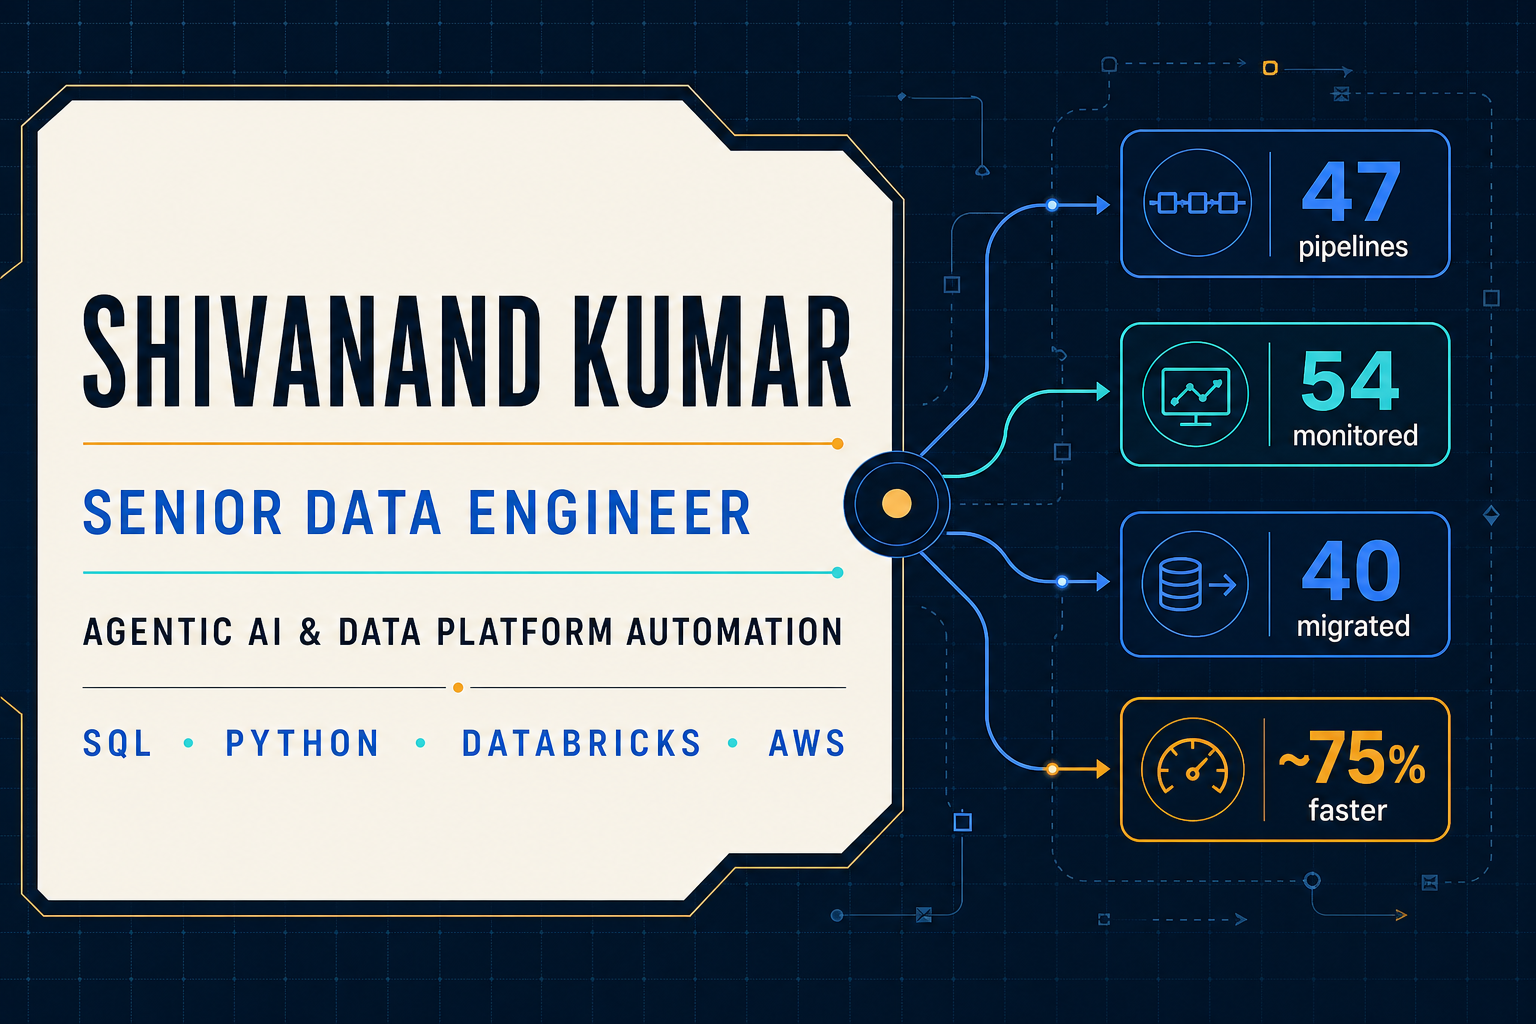
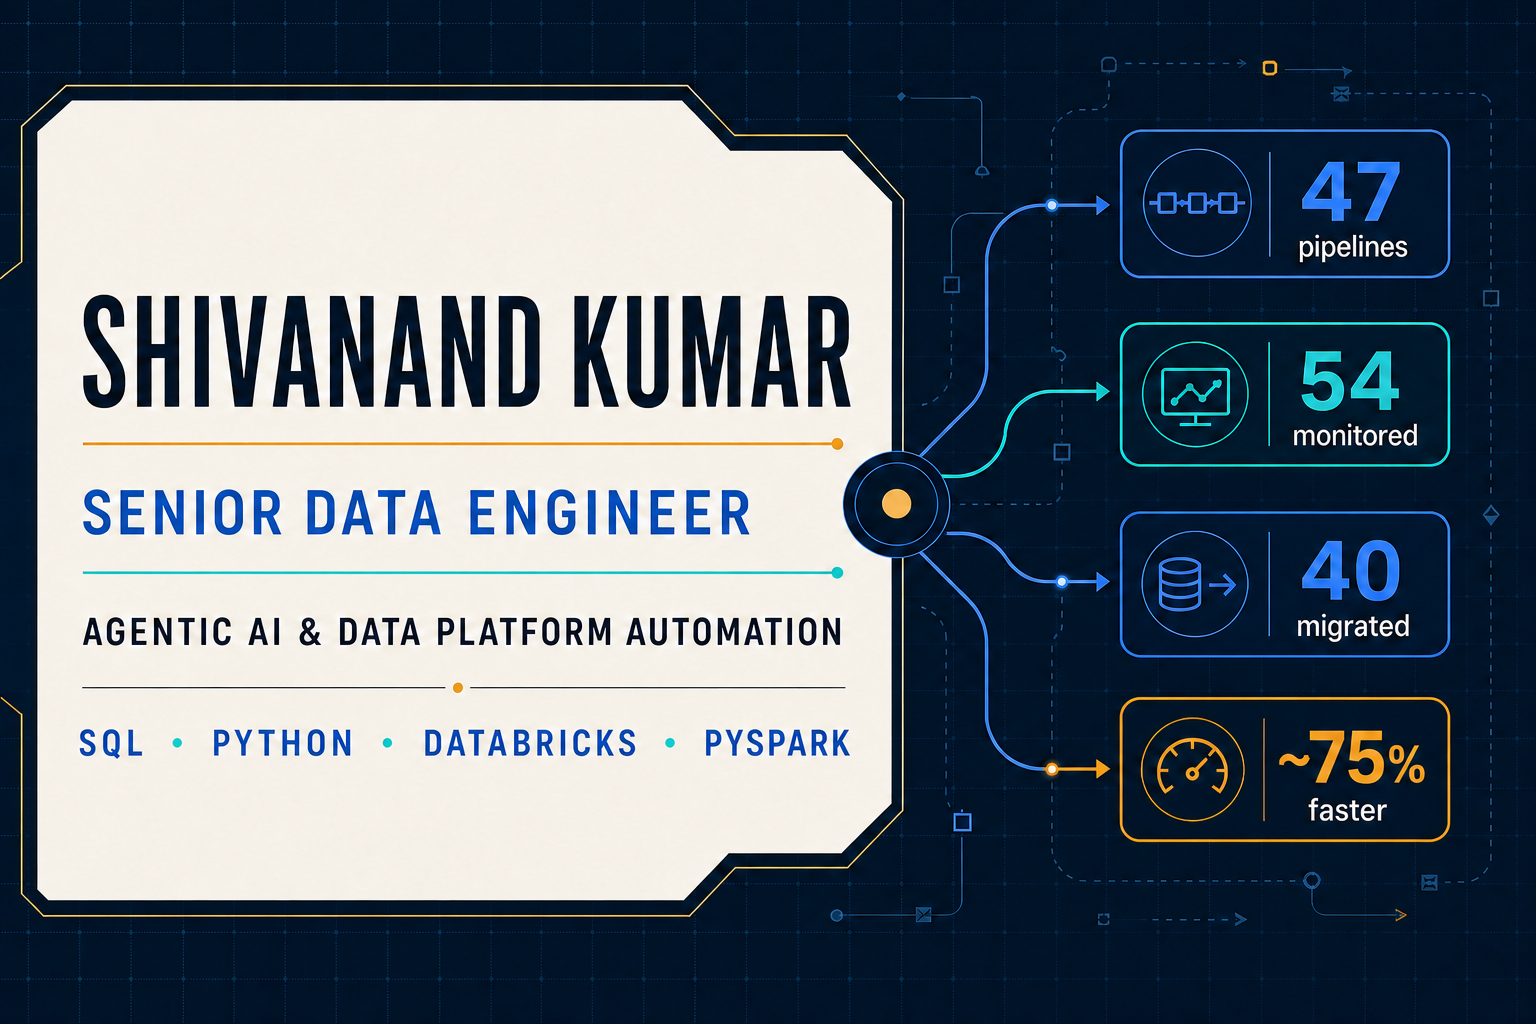
Refine Agentic AI positioning and education

diff --git a/app/page.tsx b/app/page.tsx
@@ -4,30 +4,39 @@ const caseStudies = [
     label: "Production case study",
     title: "AI-driven data-product contract automation",
     summary:
-      "Led the design and rollout of an agentic engineering workflow that turned authoritative pipeline context into structured, reviewable data-product contracts.",
-    outcomes: ["47 Databricks pipelines", "Days to hours", "Human approval retained"],
-    stack: ["Agent skills", "Structured generation", "Deterministic validation", "Databricks"],
+      "Led the end-to-end design and rollout of a five-phase agentic control loop that turned authoritative pipeline context into structured, reviewable data-product contracts.",
+    outcomes: ["47 Databricks pipelines", "20+ transformations", "Days to hours"],
+    stack: ["Agent skills", "Microsoft Waza evaluation", "Deterministic validation", "Human approval"],
   },
   {
     number: "02",
     label: "Production case study",
-    title: "Platform reliability and migration at scale",
+    title: "AI-powered operational support agent",
     summary:
-      "Built repeatable monitoring and migration patterns that improved operational visibility while reducing manual effort and production risk.",
-    outcomes: ["54 monitored pipelines", "40 migrated pipelines", "Zero migration-related failures"],
-    stack: ["Observability", "SLA monitoring", "Migration automation", "Data quality"],
+      "Built and deployed an agentic workflow that retrieves operational context, correlates failure signals, identifies likely root causes and recommends corrective actions.",
+    outcomes: ["54 production pipelines", "85–90% fewer manual checks", "Actionable failure context"],
+    stack: ["RAG", "Vector database", "Knowledge graph", "Agentic workflow"],
   },
   {
     number: "03",
     label: "Production case study",
-    title: "Distributed data optimization",
+    title: "Platform migration and observability",
     summary:
-      "Improved high-volume telemetry and lakehouse workloads through partitioning, join optimization, caching, and distributed deduplication.",
-    outcomes: ["~75% faster runtime", "21B → 400M rows", "~$1.55M savings contribution"],
-    stack: ["PySpark", "Spark", "Databricks", "Performance tuning"],
+      "Led logging standardization through a reusable migration framework while strengthening pipeline-health, SLA and incident-diagnosis visibility.",
+    outcomes: ["40 production pipelines", "Zero migration failures", "~$1.55M savings contribution"],
+    stack: ["Migration automation", "Observability", "SLA monitoring", "Incident diagnosis"],
   },
   {
     number: "04",
+    label: "Production case study",
+    title: "Distributed data optimization",
+    summary:
+      "Improved high-volume telemetry and lakehouse workloads through partitioning, join optimization, caching, and distributed deduplication.",
+    outcomes: ["~75% faster runtime", "21B → 400M rows", "Lower compute overhead"],
+    stack: ["PySpark", "Spark", "Databricks", "Performance tuning"],
+  },
+  {
+    number: "05",
     label: "Production case study",
     title: "SQL analytics automation",
     summary:
@@ -39,39 +48,39 @@ const caseStudies = [
 
 const services = [
   {
-    title: "Reliable data pipelines",
+    title: "Agentic engineering workflows",
+    copy: "RAG, structured generation, deterministic checks, evaluation sets and human-review controls for enterprise engineering automation.",
+  },
+  {
+    title: "Reliable data platforms",
     copy: "SQL, Python, Databricks and PySpark pipelines designed around clear grain, validation, recoverability and measurable outcomes.",
   },
   {
-    title: "Agentic engineering workflows",
-    copy: "Structured generation, deterministic checks, evaluation sets and human-review controls for enterprise engineering automation.",
+    title: "Evaluation & AI quality",
+    copy: "Microsoft Waza evaluation sets, LLM response evaluation, regression checks and approval gates that keep generated outputs reviewable.",
   },
   {
     title: "Platform reliability",
     copy: "Observability, migration frameworks, SLA monitoring, data-quality controls and performance diagnosis for production platforms.",
   },
-  {
-    title: "Analytics automation",
-    copy: "Operational metrics, BI-ready datasets and reporting workflows that replace repetitive manual work with trusted data products.",
-  },
 ];
 
 const skillGroups = [
   {
+    title: "Primary strengths",
+    skills: ["Agentic AI", "Advanced SQL", "Python", "Databricks"],
+  },
+  {
+    title: "AI systems & evaluation",
+    skills: ["Agent workflows", "RAG", "Vector databases", "Knowledge graphs", "Microsoft Waza evaluation", "LLM evaluation"],
+  },
+  {
     title: "Data engineering",
-    skills: ["Advanced SQL", "Python", "PySpark", "ETL / ELT", "Data modeling", "Data quality"],
+    skills: ["PySpark", "ETL / ELT", "Data modeling", "Data quality", "Delta Lake", "Unity Catalog"],
   },
   {
-    title: "Platforms & cloud",
-    skills: ["Databricks", "Delta Lake", "Unity Catalog", "Spark", "AWS S3", "Glue", "Redshift"],
-  },
-  {
-    title: "Agentic AI",
-    skills: ["Agent skills", "Structured outputs", "Context engineering", "Evaluation sets", "Human approval"],
-  },
-  {
-    title: "Reliability",
-    skills: ["Observability", "SLA monitoring", "Migration", "Performance tuning", "Incident diagnosis"],
+    title: "Platform & supporting cloud",
+    skills: ["Observability", "Migration", "Performance tuning", "AWS S3", "Glue", "Redshift"],
   },
 ];
 
@@ -81,7 +90,7 @@ const experience = [
     company: "HP",
     role: "Data Scientist II · Data Engineering & AI Platform Automation",
     detail:
-      "Enterprise Databricks pipelines, agentic contract automation, production monitoring, migration frameworks, observability and distributed optimization.",
+      "Owned agentic contract automation across 47 Databricks pipelines, an AI-powered operational support agent across 54 production pipelines, evaluation controls, migration frameworks, observability and distributed optimization.",
   },
   {
     years: "2022 — 2024",
@@ -118,6 +127,8 @@ export default function Home() {
       "SQL",
       "Python",
       "PySpark",
+      "RAG",
+      "LLM Evaluation",
       "Data Platform Automation",
     ],
   };
@@ -153,12 +164,12 @@ export default function Home() {
           </p>
           <h1>
             Reliable data platforms.
-            <span>Applied intelligence where it matters.</span>
+            <span>Agentic AI with control.</span>
           </h1>
           <p className="hero-role">Senior Data Engineer · Agentic AI & Data Platform Automation</p>
           <p className="hero-copy">
-            I build production data systems and controlled AI-assisted engineering workflows using SQL,
-            Python, Databricks and AWS—connecting reliability, automation and measurable business impact.
+            I build production data systems and controlled Agentic AI workflows using SQL, Python,
+            Databricks and PySpark—connecting reliability, evaluation and measurable business impact.
           </p>
           <div className="hero-actions">
             <a className="button button-primary" href="#work">
@@ -187,15 +198,15 @@ export default function Home() {
           <div className="signal-map">
             <div className="signal signal-a">
               <strong>47</strong>
-              <span>Databricks pipelines</span>
+              <span>Contract-automation pipelines</span>
             </div>
             <div className="signal signal-b">
               <strong>54</strong>
-              <span>Monitored pipelines</span>
+              <span>AI-agent pipeline coverage</span>
             </div>
             <div className="signal signal-c">
-              <strong>40</strong>
-              <span>Zero-failure migrations</span>
+              <strong>85–90%</strong>
+              <span>Fewer manual checks</span>
             </div>
             <div className="signal signal-d">
               <strong>~75%</strong>
@@ -215,8 +226,8 @@ export default function Home() {
         <div>
           <span>DATA PLATFORMS</span>
           <span>AGENTIC AUTOMATION</span>
-          <span>SQL & ANALYTICS</span>
-          <span>RELIABILITY</span>
+          <span>SQL · PYTHON · DATABRICKS</span>
+          <span>RAG & EVALUATION</span>
           <span>LLM EVALUATION</span>
           <span>DATA PLATFORMS</span>
         </div>
@@ -227,8 +238,8 @@ export default function Home() {
           <p className="section-kicker">What I build</p>
           <h2>Engineering work that survives the demo.</h2>
           <p>
-            A data-engineering foundation, with AI automation added through explicit context,
-            structured outputs, validation and human review.
+            Agentic AI and data-platform engineering connected through explicit context,
+            structured outputs, evaluation, validation and human review.
           </p>
         </div>
         <div className="services-grid">
@@ -285,9 +296,10 @@ export default function Home() {
             structured generation, citations, automated evaluation and human approval.
           </p>
           <div className="lab-boundary">
-            <strong>Capability boundary</strong>
+            <strong>Public project boundary</strong>
             <span>
-              This is a public portfolio project—not a claim of production RAG ownership.
+              This non-confidential project extends production Agentic AI and RAG experience
+              into a reusable portfolio architecture with separate retrieval and answer evaluation.
             </span>
           </div>
           <ul>
@@ -349,7 +361,7 @@ export default function Home() {
       <section className="section-shell experience-section">
         <div className="section-heading">
           <p className="section-kicker">Experience</p>
-          <h2>Five years across data, AI evaluation and operations.</h2>
+          <h2>Five years across data platforms, Agentic AI, evaluation and operations.</h2>
         </div>
         <div className="timeline">
           {experience.map((item) => (
@@ -387,10 +399,24 @@ export default function Home() {
       </section>
 
       <section className="section-shell education-section">
-        <div className="education-card">
-          <p className="section-kicker">Education</p>
-          <h2>M.Tech, AI & Data Science Engineering</h2>
-          <p>Indian Institute of Technology (IIT) Patna · July 2026 — Present</p>
+        <div className="education-card featured">
+          <a
+            className="education-logo"
+            href="https://www.iitp.ac.in/"
+            target="_blank"
+            rel="noreferrer"
+            aria-label="Visit the official IIT Patna website"
+          >
+            <img src="/iit-patna-logo.png" alt="Indian Institute of Technology Patna emblem" />
+          </a>
+          <div>
+            <p className="section-kicker">Education · Current programme</p>
+            <h2>M.Tech, AI & Data Science Engineering</h2>
+            <p>Indian Institute of Technology (IIT) Patna · July 2026 — Present</p>
+            <span className="education-note">
+              Industry-integrated postgraduate study aligned with AI-ready data platforms.
+            </span>
+          </div>
         </div>
         <div className="education-card secondary">
           <p className="section-kicker">Foundation</p>

diff --git a/app/globals.css b/app/globals.css
@@ -554,6 +554,16 @@ nav a:not(.nav-cta):hover {
   transform: translateY(-4px);
 }
 
+.case-card:last-child:nth-child(odd) {
+  grid-column: 1 / -1;
+  min-height: 400px;
+}
+
+.case-card:last-child:nth-child(odd) > p,
+.case-card:last-child:nth-child(odd) .outcomes {
+  max-width: 720px;
+}
+
 .case-meta {
   color: #8da2b4;
   display: flex;
@@ -928,7 +938,7 @@ nav a:not(.nav-cta):hover {
 .education-section {
   display: grid;
   gap: 18px;
-  grid-template-columns: 1.2fr 0.8fr;
+  grid-template-columns: 1.35fr 0.65fr;
   padding-bottom: 120px;
   padding-top: 120px;
 }
@@ -941,6 +951,56 @@ nav a:not(.nav-cta):hover {
   padding: 34px;
 }
 
+.education-card.featured {
+  align-items: center;
+  background:
+    radial-gradient(circle at 14% 28%, rgba(60, 130, 246, 0.11), transparent 30%),
+    var(--white);
+  display: grid;
+  gap: 28px;
+  grid-template-columns: 132px 1fr;
+  overflow: hidden;
+  position: relative;
+}
+
+.education-card.featured::after {
+  border: 1px solid rgba(60, 130, 246, 0.12);
+  border-radius: 50%;
+  content: "";
+  height: 250px;
+  left: -105px;
+  position: absolute;
+  top: -115px;
+  width: 250px;
+}
+
+.education-logo {
+  align-items: center;
+  background: #fff;
+  border: 1px solid rgba(24, 83, 127, 0.15);
+  border-radius: 50%;
+  box-shadow: 0 18px 34px rgba(7, 24, 40, 0.12);
+  display: inline-flex;
+  height: 126px;
+  justify-content: center;
+  padding: 7px;
+  position: relative;
+  transition: transform 180ms ease;
+  width: 126px;
+  z-index: 1;
+}
+
+.education-logo:hover {
+  transform: translateY(-3px);
+}
+
+.education-logo img {
+  display: block;
+  height: 100%;
+  object-fit: contain;
+  width: 100%;
+}
+
 .education-card.secondary {
   background: var(--paper-deep);
 }
@@ -951,10 +1011,32 @@ nav a:not(.nav-cta):hover {
   margin: 70px 0 16px;
 }
 
+.education-card.featured h2 {
+  margin-top: 0;
+}
+
+.education-card.featured .section-kicker {
+  margin-bottom: 18px;
+}
+
 .education-card > p:last-child {
   color: #52677a;
   line-height: 1.55;
   margin: 0;
+}
+
+.education-card.featured div > p:not(.section-kicker) {
+  color: #405b70;
+  line-height: 1.55;
+  margin: 0;
+}
+
+.education-note {
+  color: #627789;
+  display: block;
+  font-size: 13px;
+  line-height: 1.5;
+  margin-top: 12px;
 }
 
 .contact-section {
@@ -1128,6 +1210,11 @@ footer {
     min-height: 510px;
   }
 
+  .case-card:last-child:nth-child(odd) {
+    grid-column: auto;
+    min-height: 510px;
+  }
+
   .outcomes {
     grid-template-columns: 1fr;
   }
@@ -1160,6 +1247,15 @@ footer {
   .timeline article,
   .skills-grid article {
     grid-template-columns: 1fr;
+  }
+
+  .education-card.featured {
+    grid-template-columns: 92px 1fr;
+  }
+
+  .education-logo {
+    height: 88px;
+    width: 88px;
   }
 
   footer {

diff --git a/app/layout.tsx b/app/layout.tsx
@@ -20,7 +20,7 @@ export async function generateMetadata(): Promise<Metadata> {
   const baseUrl = new URL(`${protocol}://${host}`);
   const title = "Shivanand Kumar | Senior Data Engineer & Agentic AI";
   const description =
-    "Senior Data Engineer building reliable data platforms and controlled Agentic AI automation with SQL, Python, Databricks and AWS.";
+    "Senior Data Engineer building reliable data platforms and controlled Agentic AI automation with SQL, Python, Databricks, PySpark and evaluation-first engineering.";
 
   return {
     metadataBase: baseUrl,
@@ -36,6 +36,8 @@ export async function generateMetadata(): Promise<Metadata> {
       "SQL",
       "Python",
       "PySpark",
+      "RAG",
+      "LLM Evaluation",
       "Data Platform Engineer",
     ],
     openGraph: {
